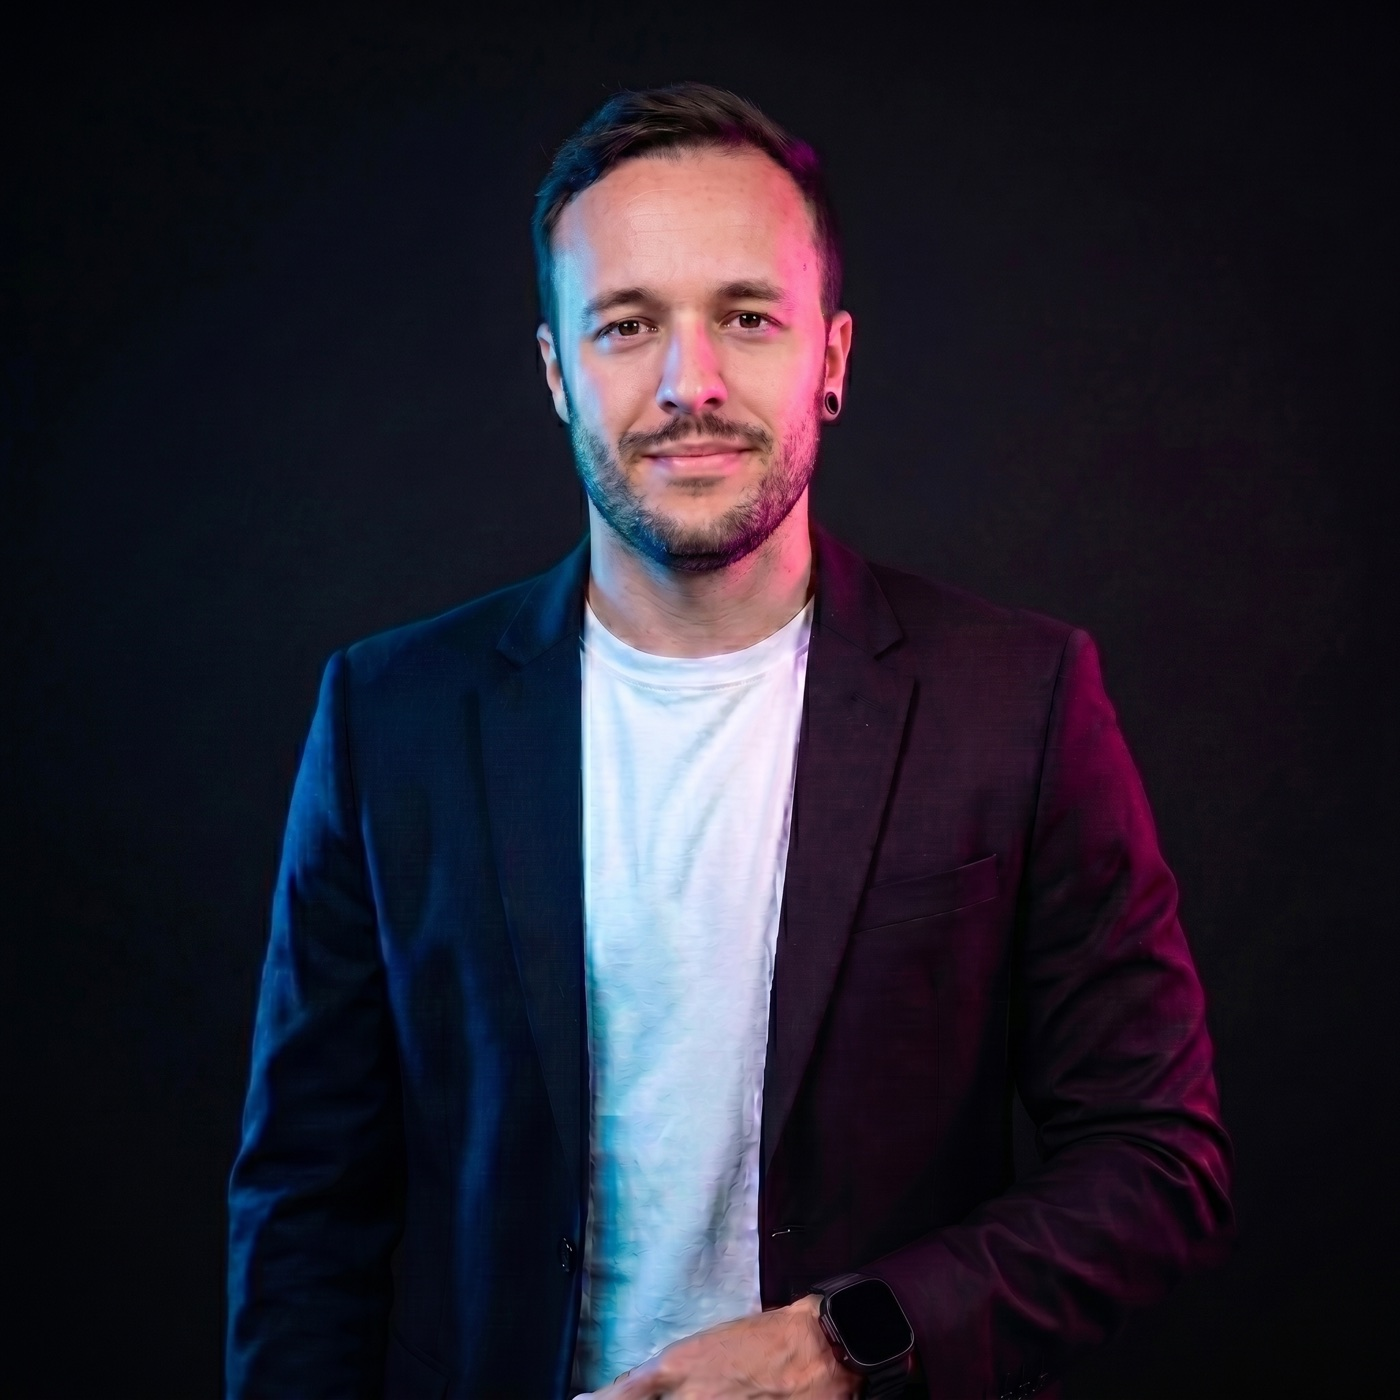
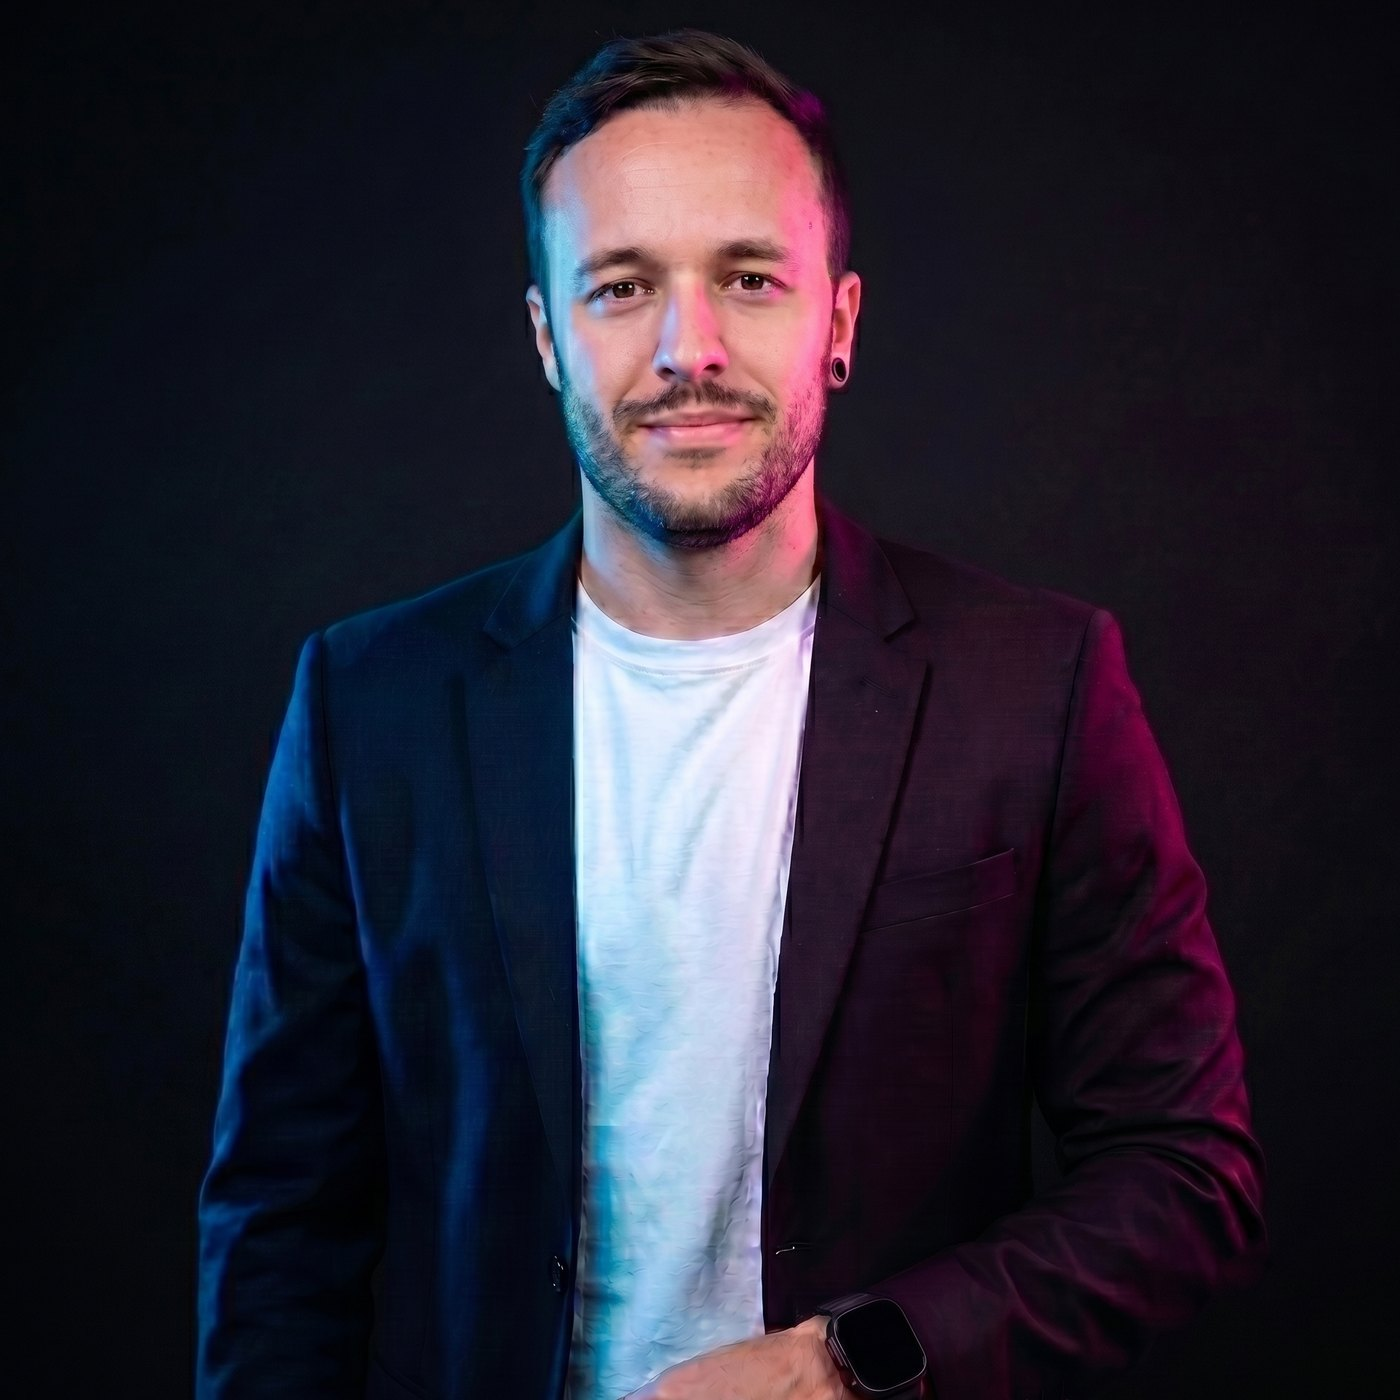
MapleTrack: add onboarding (define-the-profile) section + update About photo
- New §03 "Define the profile": the 10-step guided onboarding wizard that
  builds each applicant's profile and powers every downstream
  recommendation. Shown web + mobile; later sections renumbered 04–13.
- About: tighter portrait crop per Rafael's preferred framing.

diff --git a/app/work/maple-track/page.tsx b/app/work/maple-track/page.tsx
@@ -211,11 +211,28 @@ export default function MapleTrackCasePage() {
 
       <Divider />
 
-      {/* ═══ 03 · SIMULATOR ═══ */}
+      {/* ═══ 03 · ONBOARDING — DEFINE THE PROFILE ═══ */}
       {wrap(
         <Feature
           isMobile={isMobile}
-          label="03 — Score the profile"
+          label="03 — Define the profile"
+          titleLines={["Ten questions", em("that set the whole strategy.")]}
+          body="Everything downstream — the score, the ranked programs, the plans — rests on one thing: a profile that truly reflects the applicant. A guided 10-step onboarding walks each person through age, education, work history, language, family, finances and goals — so MapleTrack can recommend the right pathways from the very first session."
+          chips={["10 guided steps", "Per applicant", "Powers every recommendation", "Minutes, not forms"]}
+          desktop={`${SHOT}/onboarding-desktop.png`}
+          mobile={`${SHOT}/onboarding-mobile.png`}
+          url="app.mapletrack.io/onboarding"
+        />,
+        "#050505"
+      )}
+
+      <Divider />
+
+      {/* ═══ 04 · SIMULATOR ═══ */}
+      {wrap(
+        <Feature
+          isMobile={isMobile}
+          label="04 — Score the profile"
           titleLines={["A CRS simulator", em("for two.")]}
           body="The Comprehensive Ranking System decides who gets invited. MapleTrack scores Rafael and Luana separately across the full 1,200-point model — age, education, language, experience — then layers in spouse factors to surface the strongest principal applicant. Change one input and the whole breakdown recalculates live."
           chips={["1,200-point model", "Both applicants", "Spouse factors", "Live recalculation"]}
@@ -232,7 +249,7 @@ export default function MapleTrackCasePage() {
       {wrap(
         <Feature
           isMobile={isMobile}
-          label="04 — Map the path"
+          label="05 — Map the path"
           titleLines={["Nine phases, twenty-seven steps,", em("one clear next move.")]}
           body="The entire route — research and eligibility, language tests, documents, application, landing — broken into 9 phases and 27 tracked steps. Each task is assigned to Rafael or Luana, tagged to a plan, and checked off as the couple advances. The progress bar runs the whole way from Início to Cidadania."
           chips={["9 phases", "27 tracked steps", "Per-person tasks", "Início → Cidadania"]}
@@ -248,7 +265,7 @@ export default function MapleTrackCasePage() {
       {wrap(
         <Feature
           isMobile={isMobile}
-          label="05 — Choose the route"
+          label="06 — Choose the route"
           titleLines={["Thirteen pathways,", em("ranked by fit.")]}
           body="Express Entry (FSWP, CEC, FST), category-based draws, every major Provincial Nominee Program, family sponsorship — 13 programs in the knowledge base, each with processing time, CRS cut-off, required funds and language minimums. Compare them side by side, then open any one for the full breakdown."
           chips={["13 programs", "Ranked by fit", "Side-by-side compare", "Full detail view"]}
@@ -265,7 +282,7 @@ export default function MapleTrackCasePage() {
       {wrap(
         <Feature
           isMobile={isMobile}
-          label="06 — Hedge the bet"
+          label="07 — Hedge the bet"
           titleLines={["Plan A, B and C —", em("running in parallel.")]}
           body="Immigration law changes without warning, so the strategy never rests on one path. Plan A is the Atlantic Immigration Program; Plan B, Express Entry FSWP; Plan C, a Study Permit → PGWP → PR route. Each carries its own timeline, costs and language targets — and the couple can promote any plan to primary at any time."
           chips={["3 parallel plans", "Switch anytime", "Costs & timelines", "Risk-hedged"]}
@@ -281,7 +298,7 @@ export default function MapleTrackCasePage() {
       {wrap(
         <Feature
           isMobile={isMobile}
-          label="07 — Hit the targets"
+          label="08 — Hit the targets"
           titleLines={["Language scores,", em("tracked to the point.")]}
           body="Language is the biggest CRS lever, so it gets its own cockpit. Each applicant’s CELPIP/IELTS scores are tracked skill by skill against the exact benchmark every plan requires — “Plano A: atingido”, “Plano B: faltam 1 pt” — with test dates counting down to the booking."
           chips={["CELPIP · IELTS · TEF", "Skill-by-skill", "Target per plan", "Test countdowns"]}
@@ -298,7 +315,7 @@ export default function MapleTrackCasePage() {
       {wrap(
         <Feature
           isMobile={isMobile}
-          label="08 — Stay ready"
+          label="09 — Stay ready"
           titleLines={["Every document,", em("every deadline.")]}
           body="A document hub organised by category — identity, education, language, finances, legal — that tracks status (submitted, translation pending), flags what’s expired, and keeps the couple’s paperwork audit-ready for whichever plan goes live first."
           chips={["By category", "Status tracking", "Translation flags", "Expiry alerts"]}
@@ -314,7 +331,7 @@ export default function MapleTrackCasePage() {
       {wrap(
         <>
           <ScrollReveal>
-            <Label>09 — Keep the momentum</Label>
+            <Label>10 — Keep the momentum</Label>
             <Title lines={["A process this long", em("needs motivation.")]} />
             <Lead>
               Immigration takes years, so MapleTrack is built to keep a couple moving — XP and achievements for each milestone, gentle nudges and notifications, and a household where Rafael and Luana share one journey under separate logins.
@@ -344,7 +361,7 @@ export default function MapleTrackCasePage() {
       {wrap(
         <>
           <ScrollReveal>
-            <Label>10 — The craft</Label>
+            <Label>11 — The craft</Label>
             <Title lines={["One design system.", em("Every breakpoint.")]} />
             <Lead>
               The whole product runs on a single token set — the MapleTrack rose, Airbnb-grade spacing and type — with shadcn/ui primitives, keyboard and contrast accessibility, and layouts that hold from a 390px phone to a widescreen desktop. The same product, everywhere.
@@ -395,7 +412,7 @@ export default function MapleTrackCasePage() {
       {wrap(
         <>
           <ScrollReveal>
-            <Label>11 — Where it stands</Label>
+            <Label>12 — Where it stands</Label>
             <Title lines={["A working product —", em("the first of its kind.")]} mb="1rem" />
             <p style={{ fontSize: ".85rem", color: "rgba(255,255,255,.3)", marginBottom: "3.5rem", letterSpacing: ".06em" }}>Live MVP · in daily use by the household</p>
           </ScrollReveal>
@@ -423,7 +440,7 @@ export default function MapleTrackCasePage() {
       {/* ═══ 12 · WHAT I LEARNED ═══ */}
       {wrap(
         <ScrollReveal>
-          <Label>12 — What I learned</Label>
+          <Label>13 — What I learned</Label>
           <div style={{ display: "grid", gridTemplateColumns: isMobile ? "1fr" : "repeat(2,1fr)", gap: "2rem" }}>
             {([
               { icon: "compass", title: "Designing for yourself is the ultimate brief.", body: "Being user zero meant every gap in the experience was a gap in my own life. The feedback loop was instant and ruthless — the best research I’ve ever had." },
